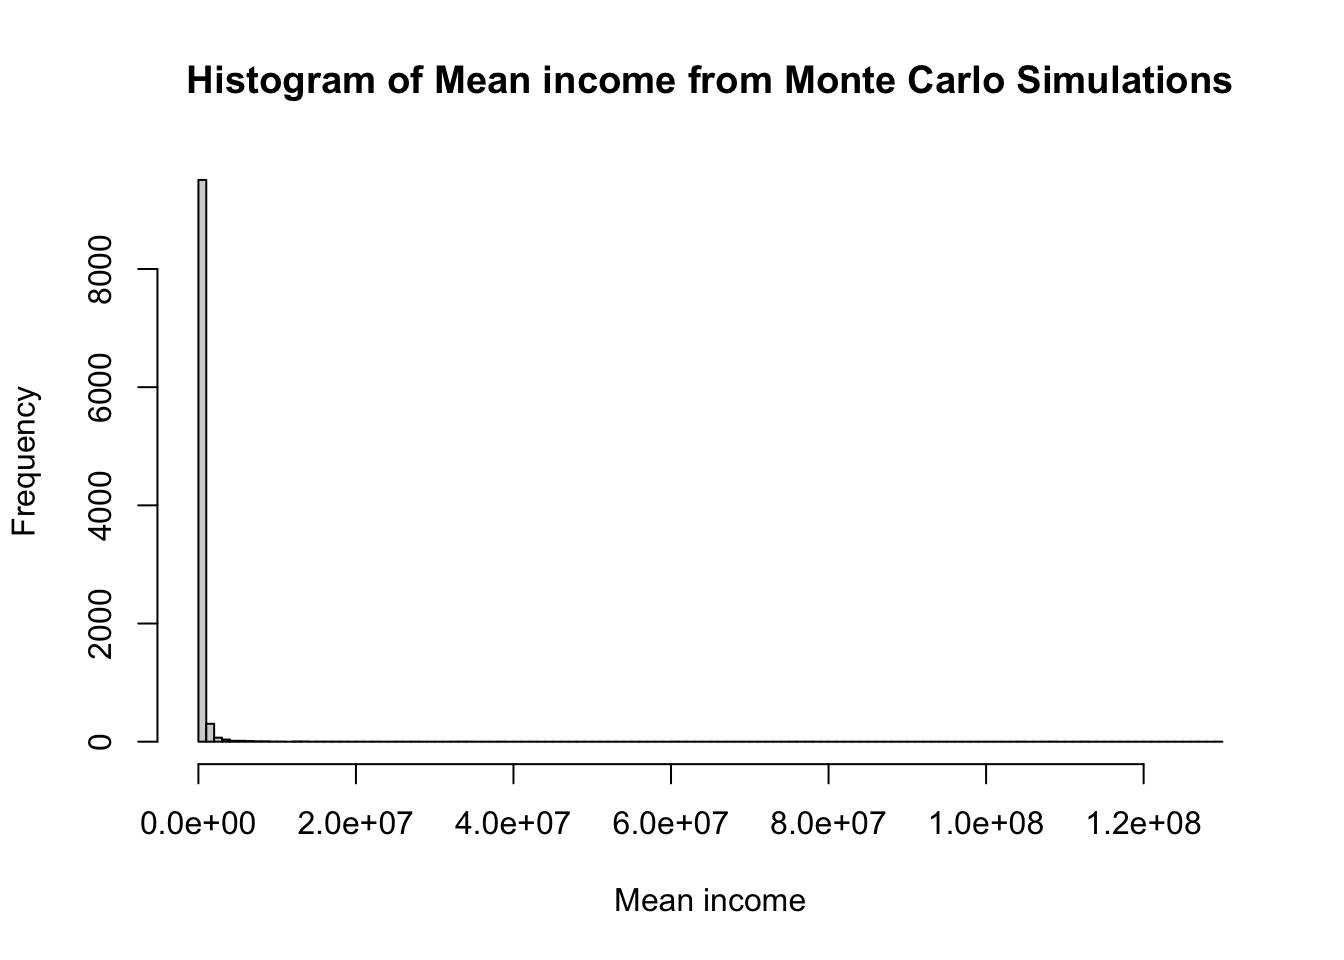
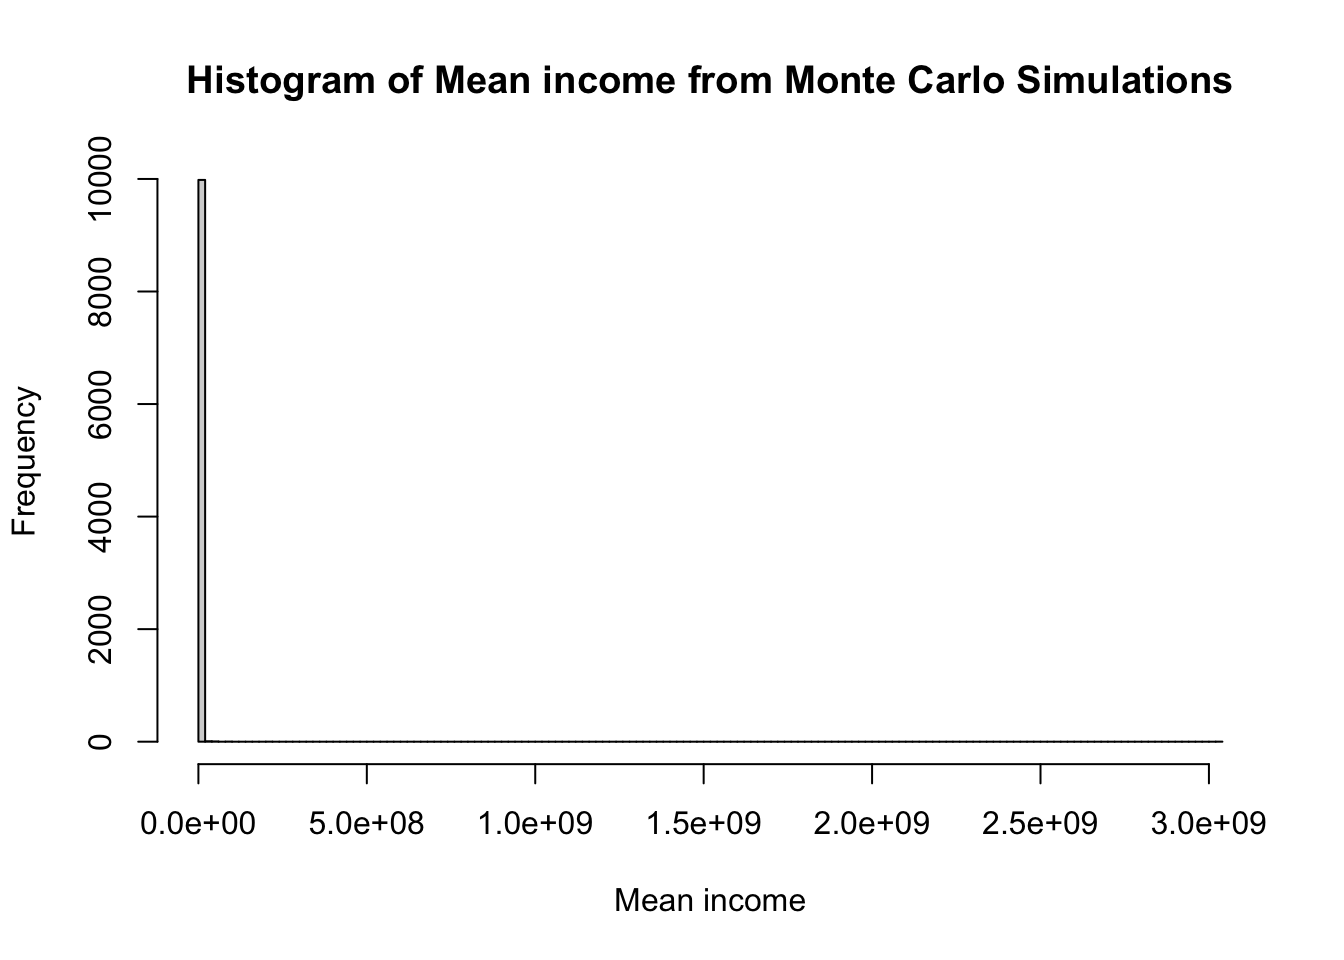
moral

diff --git a/docs/posts/montecarlo.html b/docs/posts/montecarlo.html
@@ -1005,7 +1005,7 @@ Income distribution is not normal
 </details>
 <div class="cell-output cell-output-stdout">
 <pre><code>     Min.   1st Qu.    Median      Mean   3rd Qu.      Max. 
-   217928    296947    344091    577477    440903 129495206 </code></pre>
+2.060e+05 2.968e+05 3.436e+05 8.673e+05 4.342e+05 3.030e+09 </code></pre>
 </div>
 <details open="" class="code-fold">
 <summary>Code</summary>
@@ -1013,7 +1013,7 @@ Income distribution is not normal
 </details>
 <div class="cell-output cell-output-stdout">
 <pre><code>   Min. 1st Qu.  Median    Mean 3rd Qu.    Max. 
-  62452   64082   64519   64518   64945   66978 </code></pre>
+  61959   64070   64503   64512   64945   66936 </code></pre>
 </div>
 <details open="" class="code-fold">
 <summary>Code</summary>
@@ -1021,7 +1021,7 @@ Income distribution is not normal
 </details>
 <div class="cell-output cell-output-stdout">
 <pre><code>     Min.   1st Qu.    Median      Mean   3rd Qu.      Max. 
-1.034e+06 3.342e+06 5.663e+06 2.830e+07 1.233e+07 1.289e+10 </code></pre>
+8.985e+05 3.326e+06 5.632e+06 5.730e+07 1.153e+07 3.029e+11 </code></pre>
 </div>
 </div>
 </section>

diff --git a/docs/Revision notes/Diagrams/diagrams.html b/docs/Revision notes/Diagrams/diagrams.html
@@ -1285,7 +1285,7 @@ window.document.addEventListener("DOMContentLoaded", function (event) {
 </div>
   </div>
 </footer>
-<script>var lightboxQuarto = GLightbox({"openEffect":"zoom","loop":false,"closeEffect":"zoom","selector":".lightbox","descPosition":"bottom"});
+<script>var lightboxQuarto = GLightbox({"loop":false,"openEffect":"zoom","closeEffect":"zoom","selector":".lightbox","descPosition":"bottom"});
 window.onload = () => {
   lightboxQuarto.on('slide_before_load', (data) => {
     const { slideIndex, slideNode, slideConfig, player, trigger } = data;
